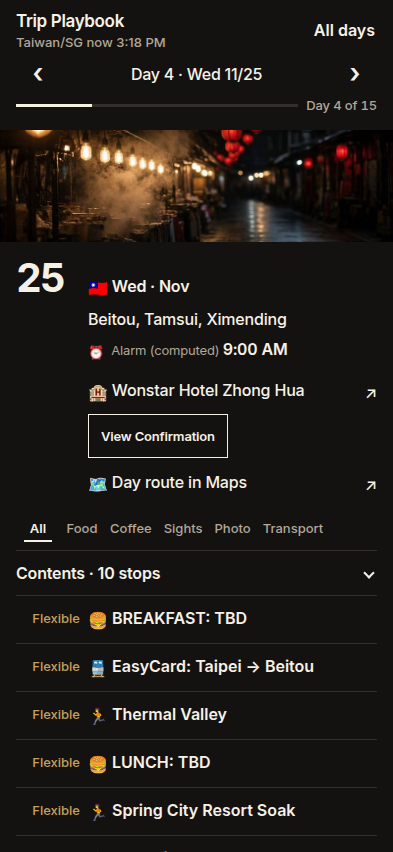
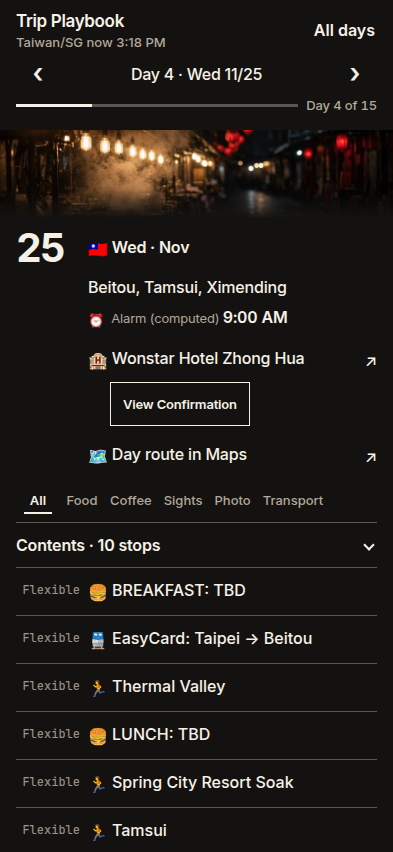
Light only the current time on the night board.
Flexible stays quiet, rules are visible, and the live stop's clock is an amber cell.

Changed region(s): [[0.0, 0.1221, 0.9466, 1.0], [0.6718, 0.5798, 0.8244, 0.6408], [0.916, 0.6408, 0.9466, 0.7019]]

diff --git a/mockups/v2/html/board-contents.html b/mockups/v2/html/board-contents.html
@@ -390,22 +390,33 @@
     }
     .refresh { font-size: 16px; color: var(--ink); }
     .plate { display: none; }
+    [data-theme="board"] { --rule: #5e564e; }
     [data-theme="board"] .plate {
       display: block;
+      position: relative;
       margin: 8px -16px 0;
-      height: 112px;
+      height: 88px;
       overflow: hidden;
       background: #0c0b09;
+    }
+    [data-theme="board"] .plate::after {
+      content: "";
+      position: absolute;
+      left: 0;
+      right: 0;
+      bottom: 0;
+      height: 28px;
+      background: linear-gradient(to bottom, rgba(20, 18, 16, 0), #141210);
     }
     [data-theme="board"] .plate img {
       display: block;
       width: 100%;
-      height: 112px;
+      height: 88px;
       object-fit: cover;
       object-position: center 38%;
     }
     [data-theme="board"] .plate.singapore img { object-position: center 58%; }
-    }
+    [data-theme="board"] .dayhead { align-items: center; padding-top: 10px; }
     [data-theme="board"] .when,
     [data-theme="board"] .contents .when,
     [data-theme="board"] .nl .when {
@@ -415,11 +426,22 @@
       letter-spacing: 0;
       color: #f0b429;
     }
-    [data-theme="board"] .when .flex { color: #c9a15a; font-weight: 500; }
+    [data-theme="board"] .when .flex,
+    [data-theme="board"] .contents .when .flex { color: #9c9388; font-weight: 500; }
+    [data-theme="board"] .row.now .when {
+      background: #f0b429;
+      color: #1c1406;
+      box-shadow: none;
+    }
     [data-theme="board"] .badge.nx {
       color: #f0b429;
       box-shadow: inset 0 0 0 1px #f0b429;
     }
+    [data-theme="board"] .meta { padding-left: 22px; padding-bottom: 8px; }
+    [data-theme="board"] .pl .go { margin-right: 8px; }
+    [data-theme="board"] .crow .on { font-weight: 500; }
+    [data-theme="board"] .panel { padding-left: 22px; }
+    [data-theme="board"] .ia { letter-spacing: 0.08em; font-size: 12px; }
     [data-theme="board"] .row.past .pl,
     [data-theme="board"] .row.past .tag,
     [data-theme="board"] .row.past .trv,
@@ -427,7 +449,7 @@
     [data-theme="board"] .row.is-done .pl { color: #a89f93; }
     [data-theme="board"] .row.past .when,
     [data-theme="board"] .crow.past .when,
-    [data-theme="board"] .row.is-done .when { color: #a89870; }
+    [data-theme="board"] .row.is-done .when { color: #9c9388; background: transparent; }
     [data-theme="board"] .done[aria-pressed="true"]::before { background: #f6f1e7; }
     [data-theme="board"] .done[aria-pressed="true"]::after { border-color: #141210; }
     [data-theme="board"] button:active,

diff --git a/mockups/v2/html/board-day4.html b/mockups/v2/html/board-day4.html
@@ -390,22 +390,33 @@
     }
     .refresh { font-size: 16px; color: var(--ink); }
     .plate { display: none; }
+    [data-theme="board"] { --rule: #5e564e; }
     [data-theme="board"] .plate {
       display: block;
+      position: relative;
       margin: 8px -16px 0;
-      height: 112px;
+      height: 88px;
       overflow: hidden;
       background: #0c0b09;
+    }
+    [data-theme="board"] .plate::after {
+      content: "";
+      position: absolute;
+      left: 0;
+      right: 0;
+      bottom: 0;
+      height: 28px;
+      background: linear-gradient(to bottom, rgba(20, 18, 16, 0), #141210);
     }
     [data-theme="board"] .plate img {
       display: block;
       width: 100%;
-      height: 112px;
+      height: 88px;
       object-fit: cover;
       object-position: center 38%;
     }
     [data-theme="board"] .plate.singapore img { object-position: center 58%; }
-    }
+    [data-theme="board"] .dayhead { align-items: center; padding-top: 10px; }
     [data-theme="board"] .when,
     [data-theme="board"] .contents .when,
     [data-theme="board"] .nl .when {
@@ -415,11 +426,22 @@
       letter-spacing: 0;
       color: #f0b429;
     }
-    [data-theme="board"] .when .flex { color: #c9a15a; font-weight: 500; }
+    [data-theme="board"] .when .flex,
+    [data-theme="board"] .contents .when .flex { color: #9c9388; font-weight: 500; }
+    [data-theme="board"] .row.now .when {
+      background: #f0b429;
+      color: #1c1406;
+      box-shadow: none;
+    }
     [data-theme="board"] .badge.nx {
       color: #f0b429;
       box-shadow: inset 0 0 0 1px #f0b429;
     }
+    [data-theme="board"] .meta { padding-left: 22px; padding-bottom: 8px; }
+    [data-theme="board"] .pl .go { margin-right: 8px; }
+    [data-theme="board"] .crow .on { font-weight: 500; }
+    [data-theme="board"] .panel { padding-left: 22px; }
+    [data-theme="board"] .ia { letter-spacing: 0.08em; font-size: 12px; }
     [data-theme="board"] .row.past .pl,
     [data-theme="board"] .row.past .tag,
     [data-theme="board"] .row.past .trv,
@@ -427,7 +449,7 @@
     [data-theme="board"] .row.is-done .pl { color: #a89f93; }
     [data-theme="board"] .row.past .when,
     [data-theme="board"] .crow.past .when,
-    [data-theme="board"] .row.is-done .when { color: #a89870; }
+    [data-theme="board"] .row.is-done .when { color: #9c9388; background: transparent; }
     [data-theme="board"] .done[aria-pressed="true"]::before { background: #f6f1e7; }
     [data-theme="board"] .done[aria-pressed="true"]::after { border-color: #141210; }
     [data-theme="board"] button:active,

diff --git a/mockups/v2/html/board-expanded.html b/mockups/v2/html/board-expanded.html
@@ -390,22 +390,33 @@
     }
     .refresh { font-size: 16px; color: var(--ink); }
     .plate { display: none; }
+    [data-theme="board"] { --rule: #5e564e; }
     [data-theme="board"] .plate {
       display: block;
+      position: relative;
       margin: 8px -16px 0;
-      height: 112px;
+      height: 88px;
       overflow: hidden;
       background: #0c0b09;
+    }
+    [data-theme="board"] .plate::after {
+      content: "";
+      position: absolute;
+      left: 0;
+      right: 0;
+      bottom: 0;
+      height: 28px;
+      background: linear-gradient(to bottom, rgba(20, 18, 16, 0), #141210);
     }
     [data-theme="board"] .plate img {
       display: block;
       width: 100%;
-      height: 112px;
+      height: 88px;
       object-fit: cover;
       object-position: center 38%;
     }
     [data-theme="board"] .plate.singapore img { object-position: center 58%; }
-    }
+    [data-theme="board"] .dayhead { align-items: center; padding-top: 10px; }
     [data-theme="board"] .when,
     [data-theme="board"] .contents .when,
     [data-theme="board"] .nl .when {
@@ -415,11 +426,22 @@
       letter-spacing: 0;
       color: #f0b429;
     }
-    [data-theme="board"] .when .flex { color: #c9a15a; font-weight: 500; }
+    [data-theme="board"] .when .flex,
+    [data-theme="board"] .contents .when .flex { color: #9c9388; font-weight: 500; }
+    [data-theme="board"] .row.now .when {
+      background: #f0b429;
+      color: #1c1406;
+      box-shadow: none;
+    }
     [data-theme="board"] .badge.nx {
       color: #f0b429;
       box-shadow: inset 0 0 0 1px #f0b429;
     }
+    [data-theme="board"] .meta { padding-left: 22px; padding-bottom: 8px; }
+    [data-theme="board"] .pl .go { margin-right: 8px; }
+    [data-theme="board"] .crow .on { font-weight: 500; }
+    [data-theme="board"] .panel { padding-left: 22px; }
+    [data-theme="board"] .ia { letter-spacing: 0.08em; font-size: 12px; }
     [data-theme="board"] .row.past .pl,
     [data-theme="board"] .row.past .tag,
     [data-theme="board"] .row.past .trv,
@@ -427,7 +449,7 @@
     [data-theme="board"] .row.is-done .pl { color: #a89f93; }
     [data-theme="board"] .row.past .when,
     [data-theme="board"] .crow.past .when,
-    [data-theme="board"] .row.is-done .when { color: #a89870; }
+    [data-theme="board"] .row.is-done .when { color: #9c9388; background: transparent; }
     [data-theme="board"] .done[aria-pressed="true"]::before { background: #f6f1e7; }
     [data-theme="board"] .done[aria-pressed="true"]::after { border-color: #141210; }
     [data-theme="board"] button:active,

diff --git a/mockups/v2/html/board-now.html b/mockups/v2/html/board-now.html
@@ -390,22 +390,33 @@
     }
     .refresh { font-size: 16px; color: var(--ink); }
     .plate { display: none; }
+    [data-theme="board"] { --rule: #5e564e; }
     [data-theme="board"] .plate {
       display: block;
+      position: relative;
       margin: 8px -16px 0;
-      height: 112px;
+      height: 88px;
       overflow: hidden;
       background: #0c0b09;
+    }
+    [data-theme="board"] .plate::after {
+      content: "";
+      position: absolute;
+      left: 0;
+      right: 0;
+      bottom: 0;
+      height: 28px;
+      background: linear-gradient(to bottom, rgba(20, 18, 16, 0), #141210);
     }
     [data-theme="board"] .plate img {
       display: block;
       width: 100%;
-      height: 112px;
+      height: 88px;
       object-fit: cover;
       object-position: center 38%;
     }
     [data-theme="board"] .plate.singapore img { object-position: center 58%; }
-    }
+    [data-theme="board"] .dayhead { align-items: center; padding-top: 10px; }
     [data-theme="board"] .when,
     [data-theme="board"] .contents .when,
     [data-theme="board"] .nl .when {
@@ -415,11 +426,22 @@
       letter-spacing: 0;
       color: #f0b429;
     }
-    [data-theme="board"] .when .flex { color: #c9a15a; font-weight: 500; }
+    [data-theme="board"] .when .flex,
+    [data-theme="board"] .contents .when .flex { color: #9c9388; font-weight: 500; }
+    [data-theme="board"] .row.now .when {
+      background: #f0b429;
+      color: #1c1406;
+      box-shadow: none;
+    }
     [data-theme="board"] .badge.nx {
       color: #f0b429;
       box-shadow: inset 0 0 0 1px #f0b429;
     }
+    [data-theme="board"] .meta { padding-left: 22px; padding-bottom: 8px; }
+    [data-theme="board"] .pl .go { margin-right: 8px; }
+    [data-theme="board"] .crow .on { font-weight: 500; }
+    [data-theme="board"] .panel { padding-left: 22px; }
+    [data-theme="board"] .ia { letter-spacing: 0.08em; font-size: 12px; }
     [data-theme="board"] .row.past .pl,
     [data-theme="board"] .row.past .tag,
     [data-theme="board"] .row.past .trv,
@@ -427,7 +449,7 @@
     [data-theme="board"] .row.is-done .pl { color: #a89f93; }
     [data-theme="board"] .row.past .when,
     [data-theme="board"] .crow.past .when,
-    [data-theme="board"] .row.is-done .when { color: #a89870; }
+    [data-theme="board"] .row.is-done .when { color: #9c9388; background: transparent; }
     [data-theme="board"] .done[aria-pressed="true"]::before { background: #f6f1e7; }
     [data-theme="board"] .done[aria-pressed="true"]::after { border-color: #141210; }
     [data-theme="board"] button:active,
